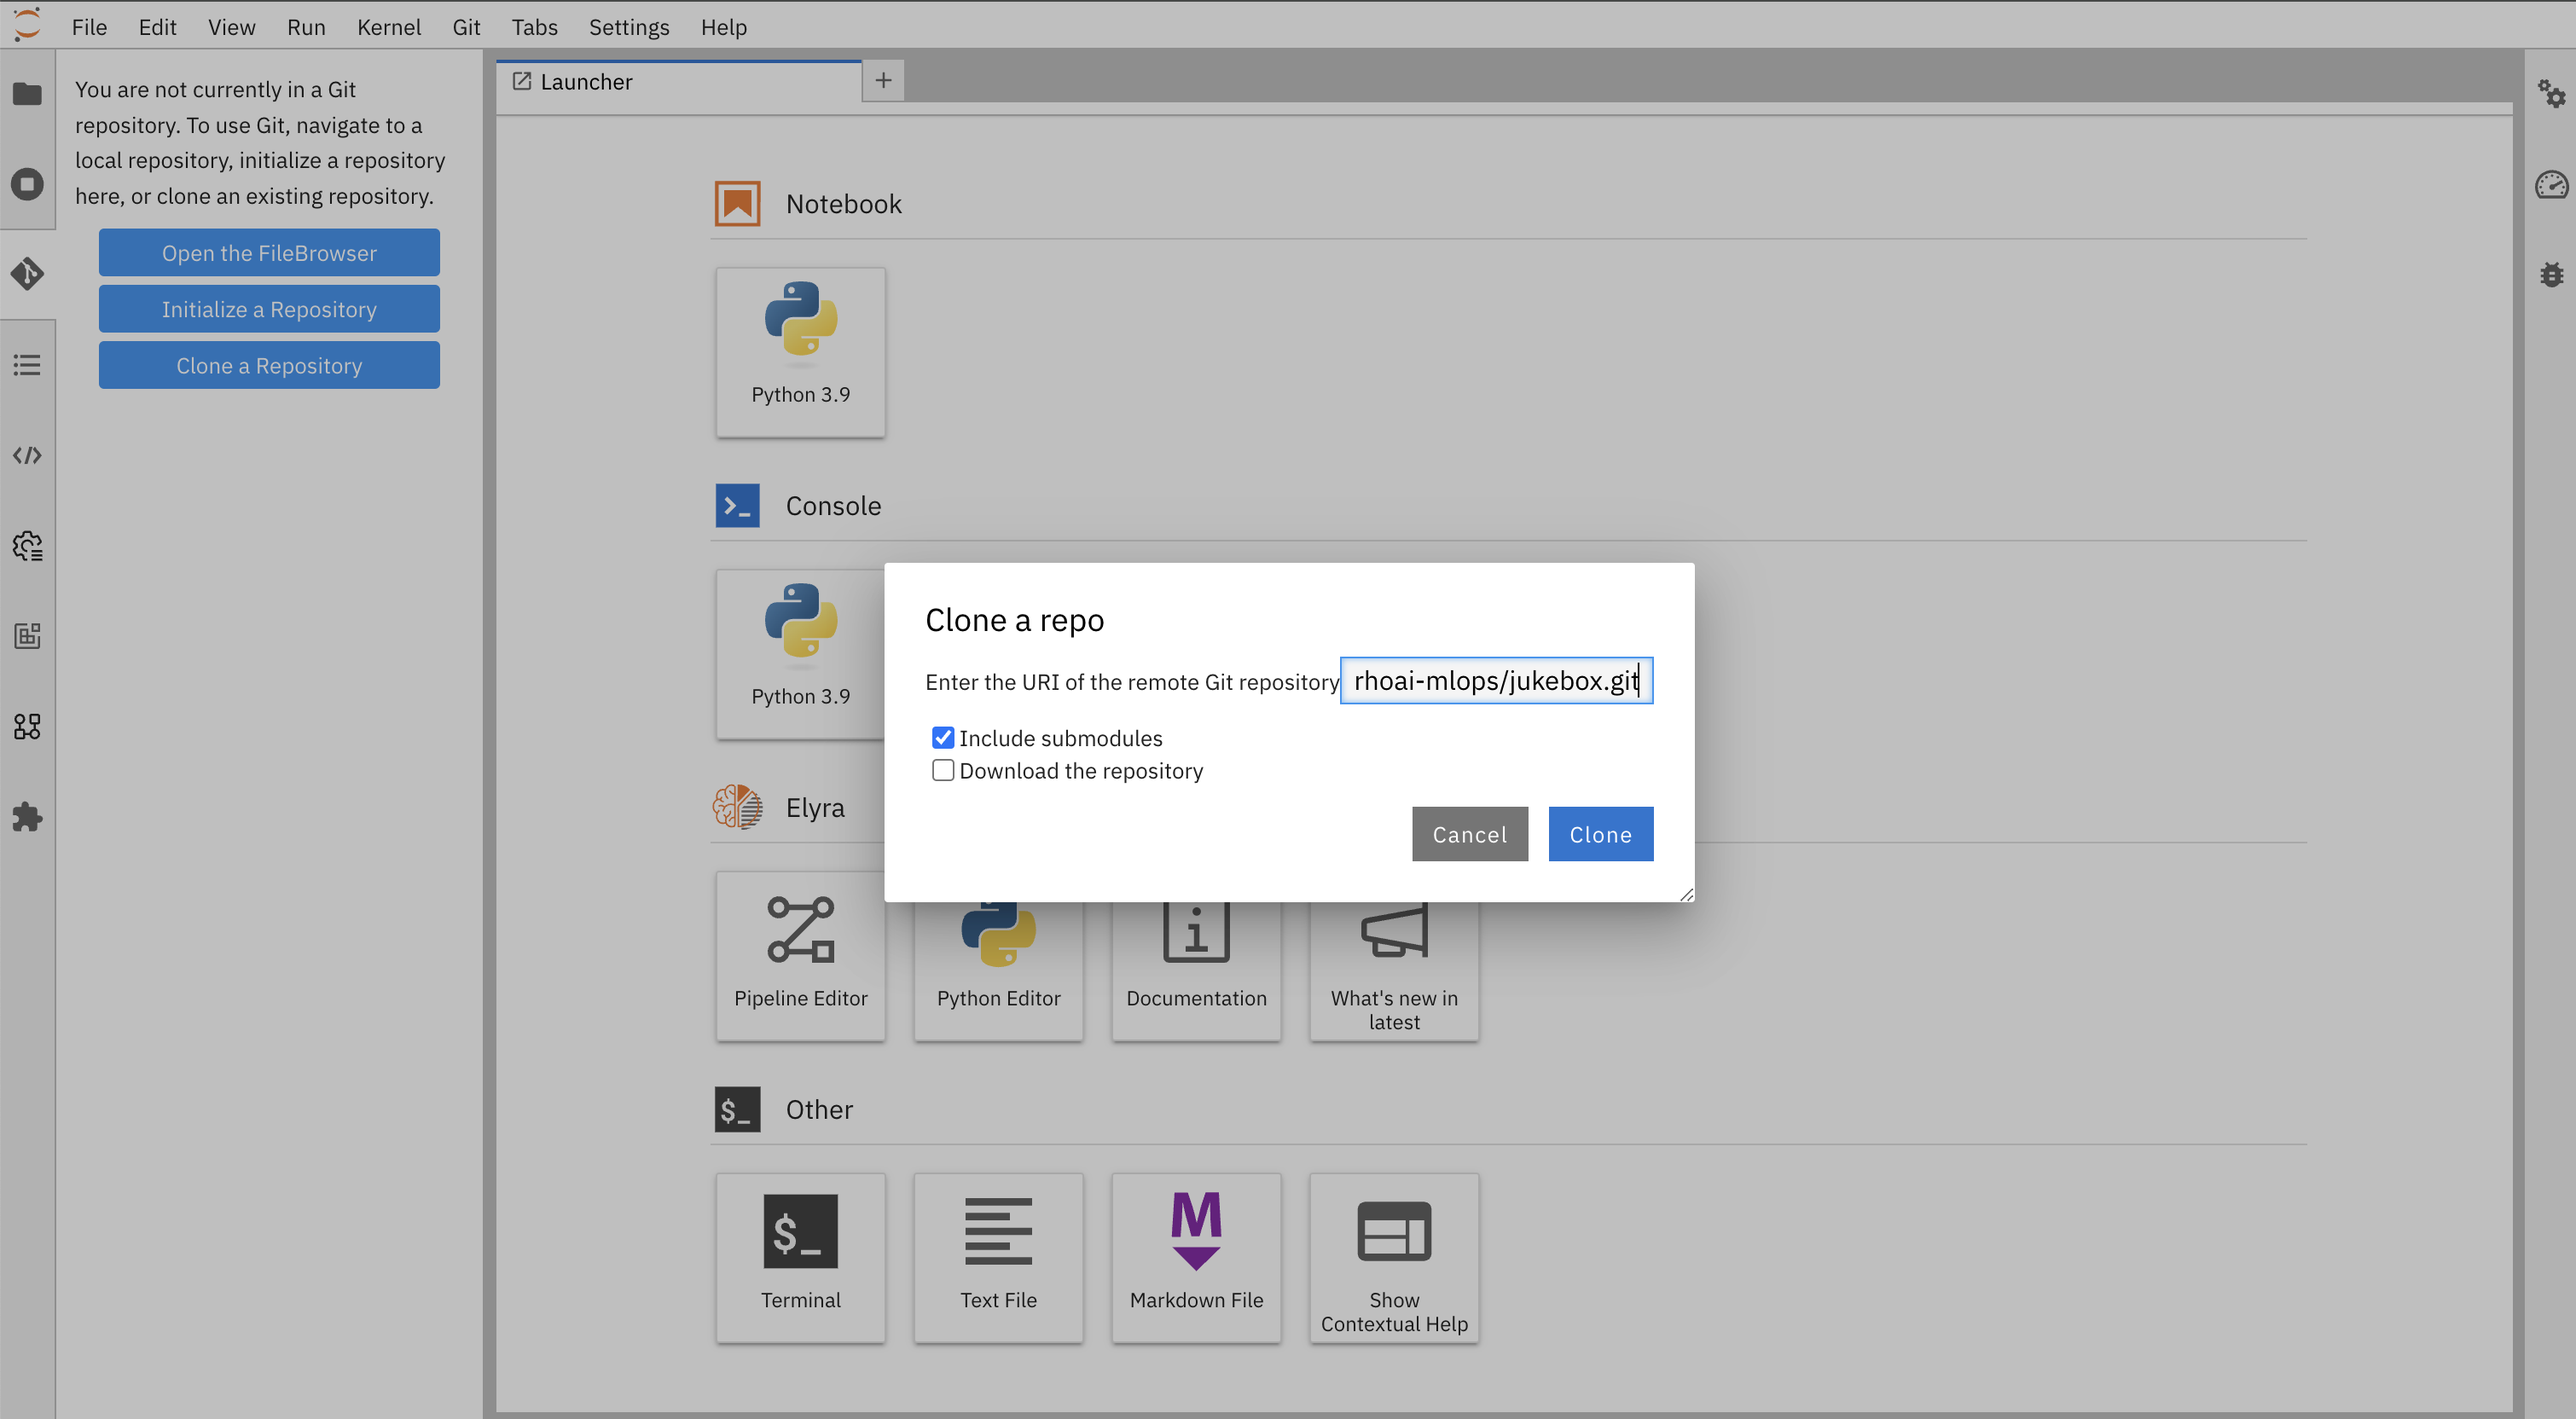
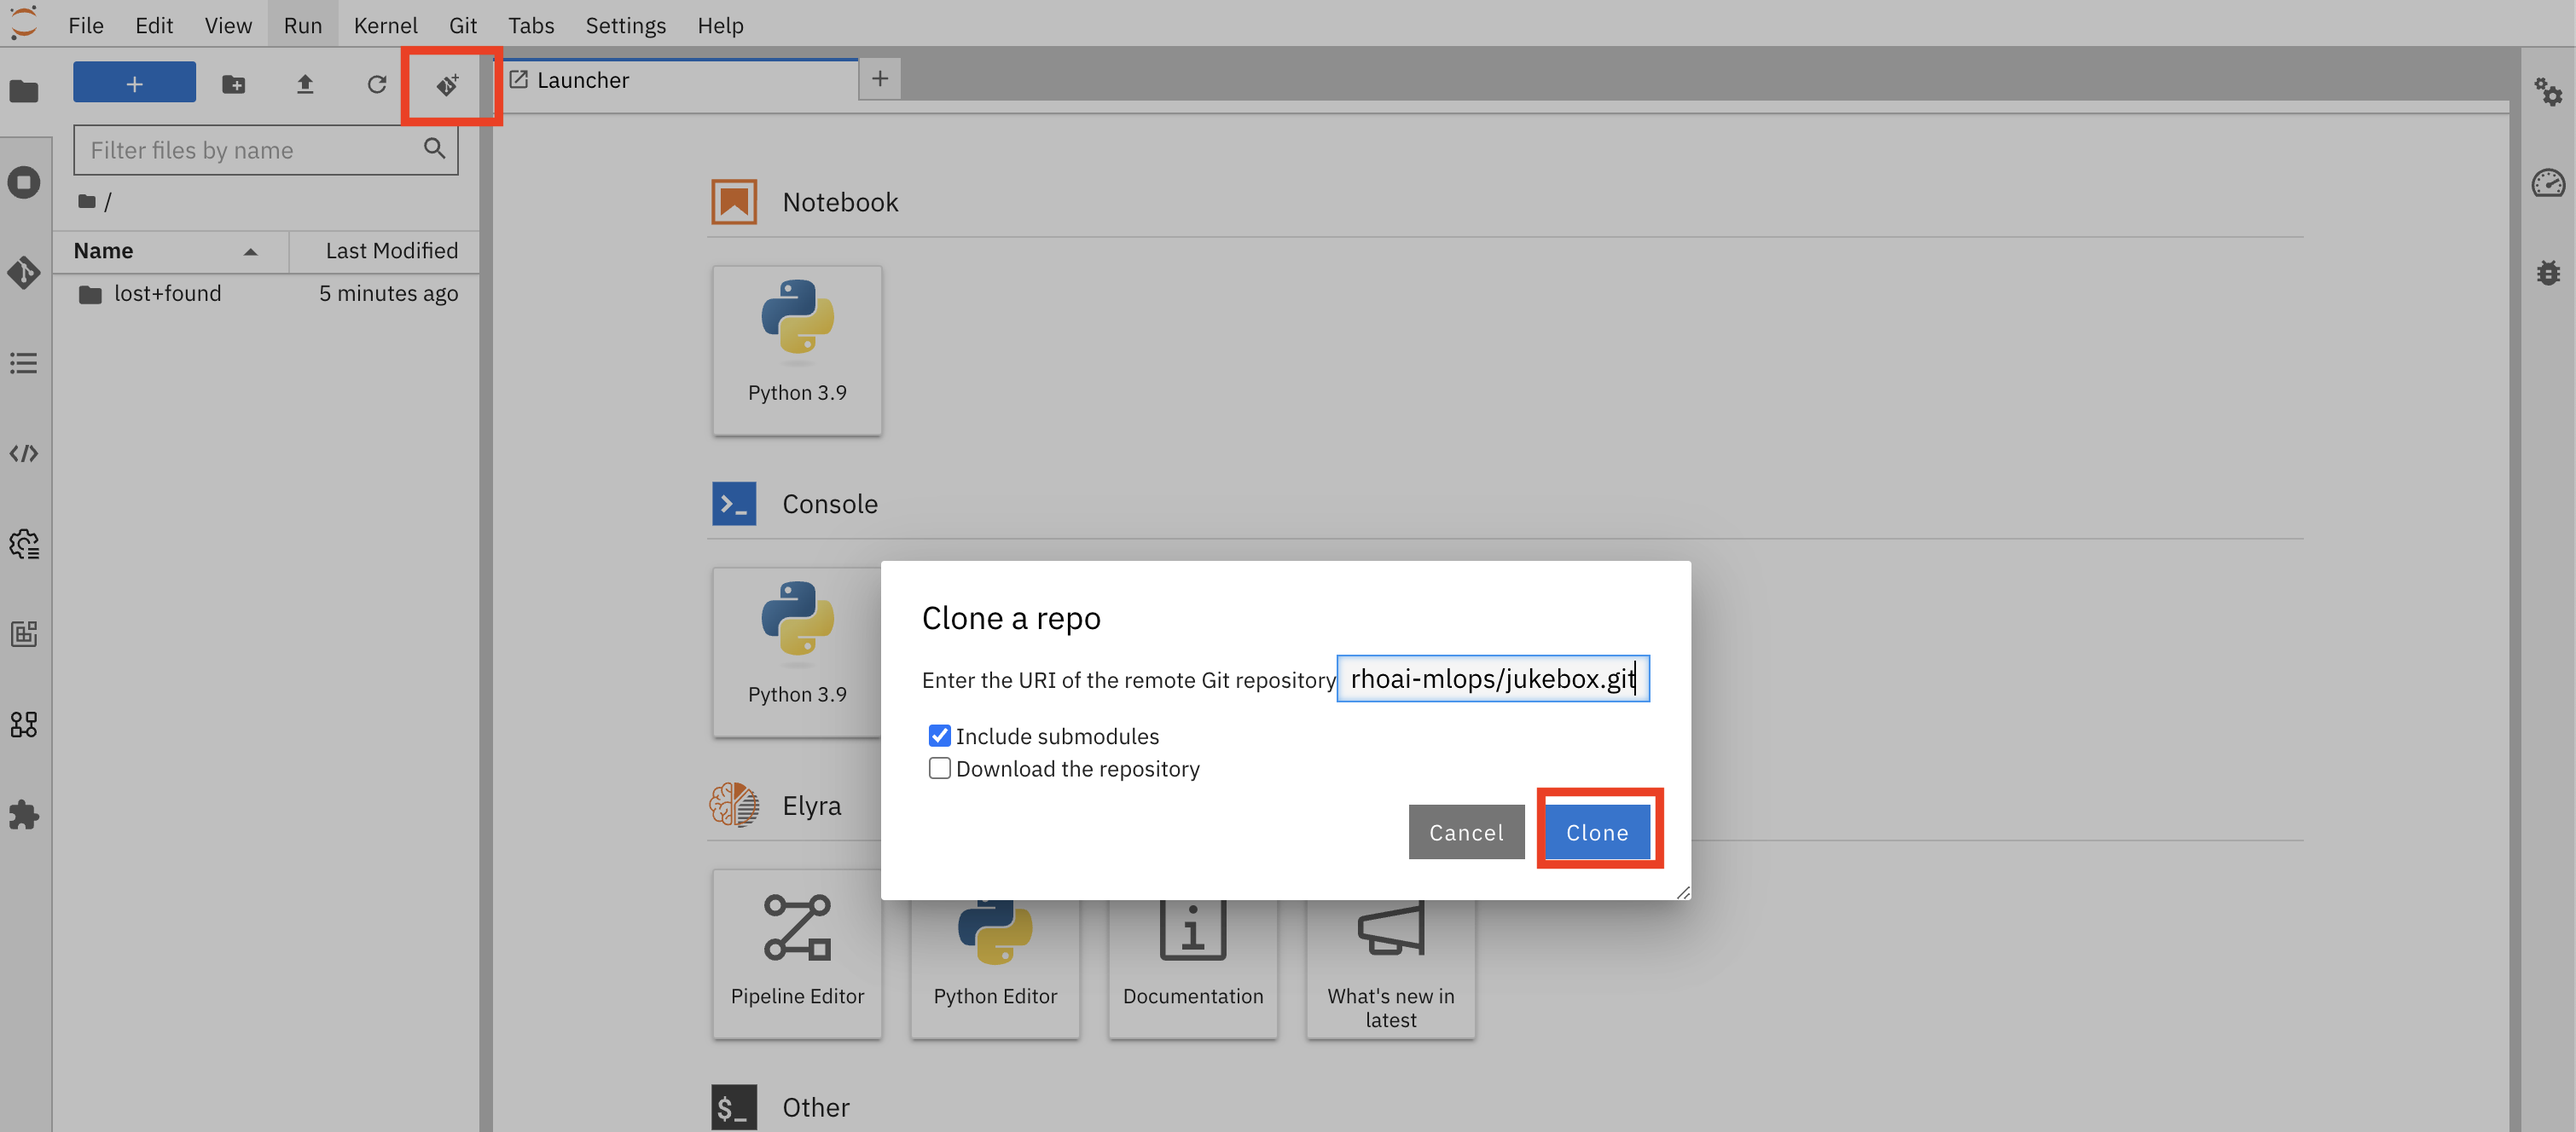
🎶KfP steps added🎵

diff --git a/docs/2-in-the-rhythm-of-data/1b-kfp.md b/docs/2-in-the-rhythm-of-data/1b-kfp.md
@@ -11,6 +11,28 @@ If you look at the files under this folder, they are mainly the steps that we ha
 Normally, we are not going to trigger this pipeline manually but just to test the functionality and view the output, let's go to Terminal and initiate a pipeline by running the below command:
 
 ```bash
-
+cd /opt/app-root/src/jukebox/4-prod_datascience
+python prod_train_save_pipeline.py
 ```
 
+You need to see an output like this:
+
+<div class="highlight" style="background: #f7f7f7">
+<pre><code class="language-yaml">
+    ...
+    Experiment details: https://ds-pipeline-dspa.<TEAM_NAME>.svc:8443/#/experiments/details/5bca7df3-1f2d
+    Run details: https://ds-pipeline-dspa.<TEAM_NAME>.svc:8443/#/runs/details/422f78a5-81a6-4052-9c8d-9d9d1a89b44a
+</code></pre></div>
+
+
+Go to OpenShift AI UI. Select Data Science Pipelines from the left menu and go to Runs. You'll see there is one run with the Running status. Click to see the details of the pipeline run.
+
+![kfp-2.png](./images/kfp-2.png)
+
+You'll be able to get many details like the relationship between the steps, the output of each step, the artifacts that are generated, the metrics and graphs. 
+
+![kfp-3.png](./images/kfp-3.png)
+
+ Feel free to spend some time in this view to explore more! 
+
+Then let's continue to prepare the environment for MLOps practices 🙌

diff --git a/docs/1-when-the-music-starts/1-data-science-project.md b/docs/1-when-the-music-starts/1-data-science-project.md
@@ -37,7 +37,7 @@
 
     ![create-a-workbench-4.png](./images/create-a-workbench-4.png)
 
-5. Clone the Git repository that has model source code. Click the Git icon from the left menu, then select `Clone a Repository`. Copy the    GitHub link and clone the repository.
+5. Clone the Git repository that has model source code. Click the Git icon from the top of the left menu and , copy the GitHub link to clone the repository.
 
     ```bash
     https://github.com/rhoai-mlops/jukebox.git
